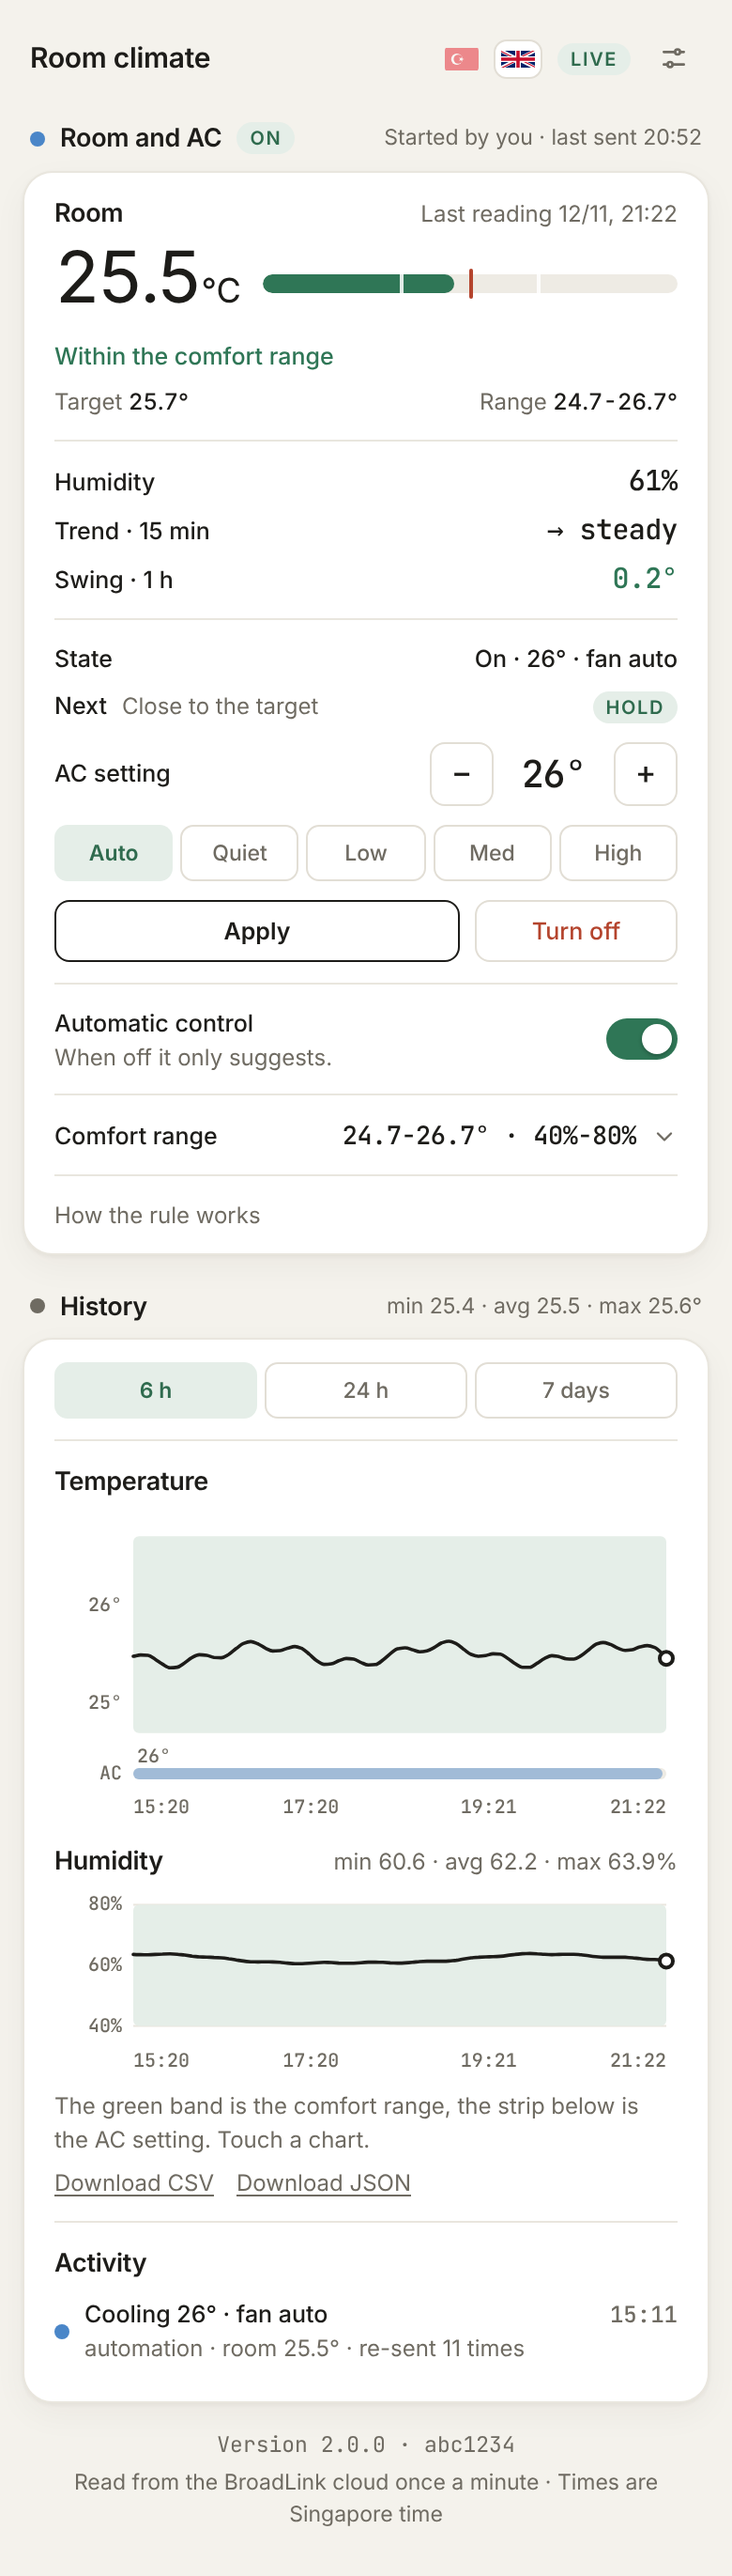
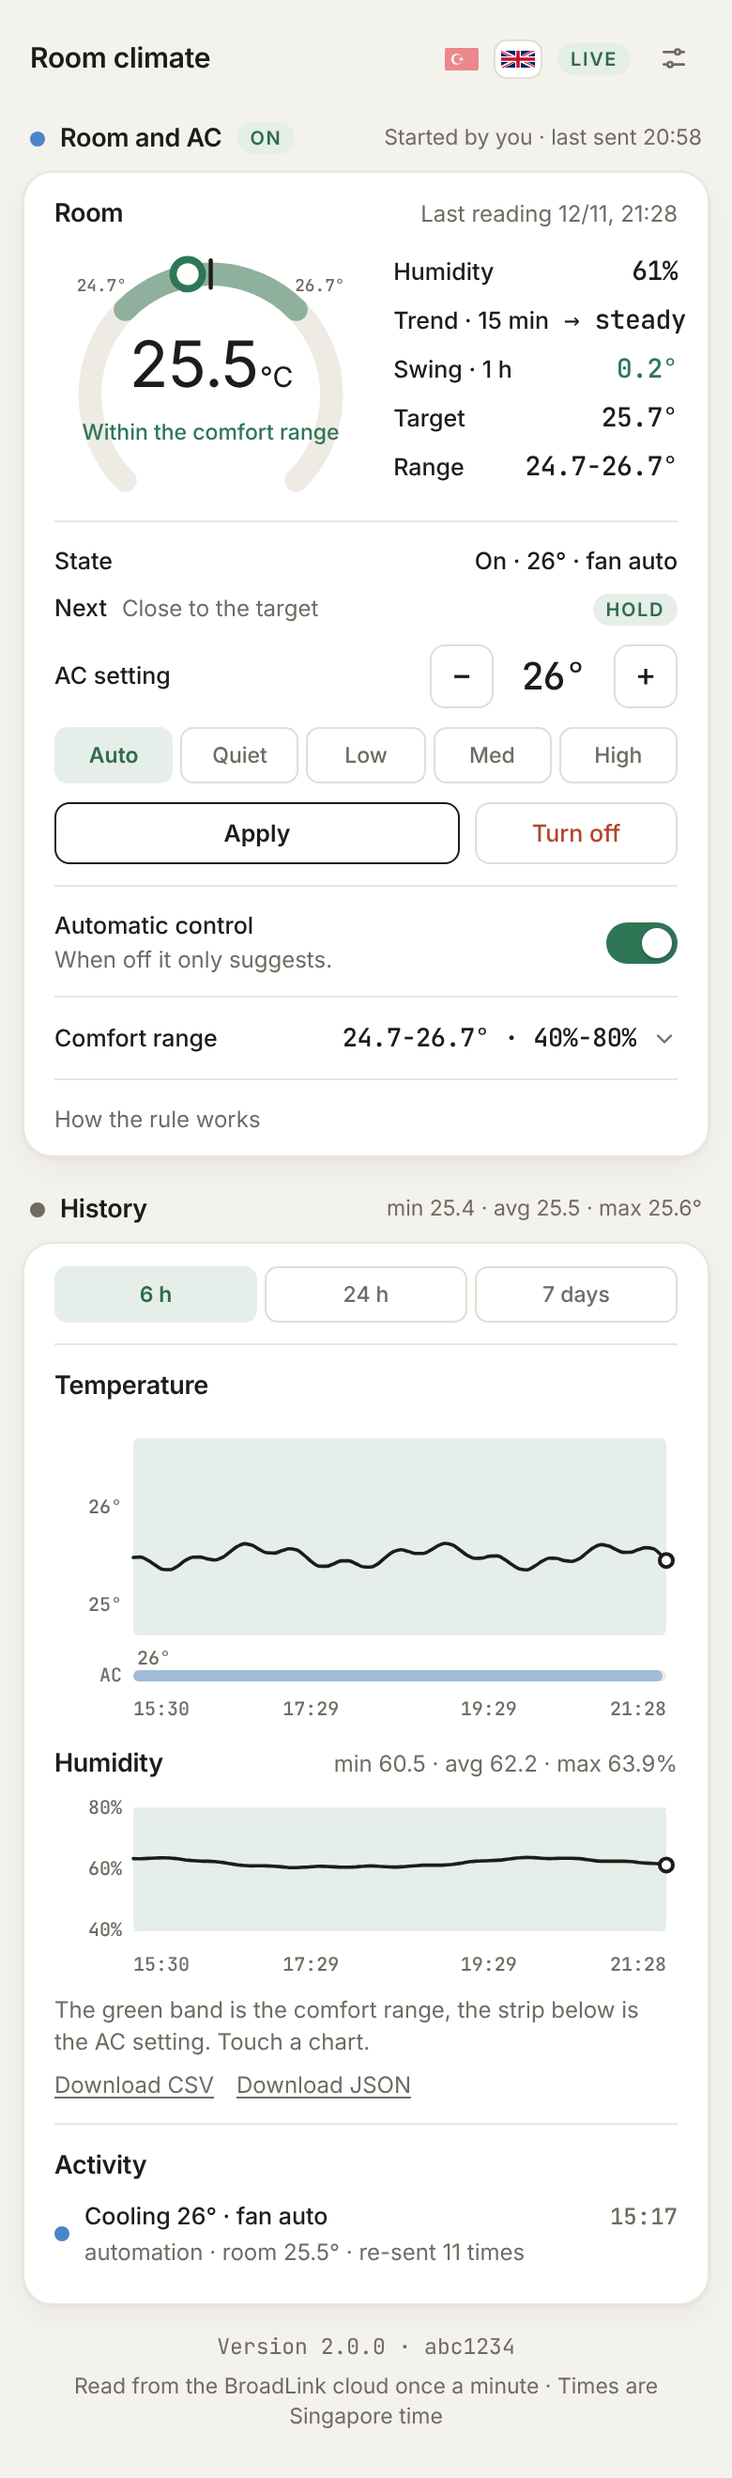
Bring the dial back in Runway colours
Claude-Session: https://claude.ai/code/session_01PFTjAvHpDoi9qfTSWgVPRK

diff --git a/cloud/public/index.html b/cloud/public/index.html
@@ -77,21 +77,25 @@ header h1{margin:0;font-size:var(--fs-lg);font-weight:600;letter-spacing:-.01em;
 /* stat */
 .stat-label{display:flex;justify-content:space-between;align-items:baseline;gap:8px;font-size:var(--fs-md);font-weight:600;letter-spacing:-.01em}
 .stat-label .cap{font-size:12px;font-weight:400;color:var(--muted);letter-spacing:0;text-align:right}
-.stat{display:flex;align-items:center;gap:12px;margin:2px 0 4px}
-.hero{flex:none;min-width:96px;font-size:var(--fs-hero);line-height:44px;font-weight:420;letter-spacing:-.045em;font-variant-numeric:tabular-nums;white-space:nowrap;transition:color .6s}
+.stat-state{font-size:var(--fs-sm);font-weight:500}
+.hero{font-size:var(--fs-hero);line-height:44px;font-weight:420;letter-spacing:-.045em;font-variant-numeric:tabular-nums;white-space:nowrap;transition:color .6s}
 .hero small{margin-left:1px;font-size:18px;font-weight:430;letter-spacing:0}
-.stat-foot{display:flex;justify-content:space-between;gap:8px;font-size:12px;color:var(--muted);font-variant-numeric:tabular-nums}
-.stat-foot b{font-weight:500;color:var(--fg)}
-.stat-state{font-size:var(--fs-sm);font-weight:500;margin-bottom:6px}
 
-/* meter: track, status fill, tick gaps, pace mark */
-.meter{position:relative;flex:1}
-.track{position:relative;height:10px;border-radius:5px;background:var(--track);overflow:hidden}
-.track i{position:absolute;left:0;top:0;bottom:0;border-radius:inherit;transition:width .8s cubic-bezier(.22,1,.36,1),background .6s}
-.track i.ok{background:var(--ok)}.track i.warn{background:var(--warn)}.track i.crit{background:var(--crit)}
-.track u{position:absolute;top:0;bottom:0;width:2px;margin-left:-1px;background:var(--card);opacity:.85;z-index:1}
-.pace{position:absolute;top:-3px;width:2px;height:16px;margin-left:-1px;border-radius:1px;background:var(--crit);transition:left .6s}
-
+/* room: dial + key/values */
+.room{display:grid;grid-template-columns:minmax(0,1.1fr) minmax(0,1fr);gap:14px;align-items:center;margin-top:4px}
+.dial{position:relative}
+.dial svg{width:100%;height:auto;overflow:visible}
+.dial text{fill:var(--muted);font:500 16px var(--mono)}
+#dTrack{stroke:var(--track)}
+#dBand{stroke:var(--ok);opacity:.5}
+#dTarget{stroke:var(--fg)}
+#needle{transform:rotate(135deg);transform-origin:150px 150px;transition:transform 1s cubic-bezier(.22,1,.36,1)}
+#needle circle{fill:var(--card);stroke:var(--state,var(--ok));stroke-width:7;transition:stroke .6s}
+.dialv{position:absolute;inset:0;display:flex;flex-direction:column;align-items:center;justify-content:center;padding-top:12%;pointer-events:none}
+.dialv .hero{min-width:0;font-size:34px;line-height:38px}
+.dialv .hero small{font-size:15px}
+.dialv .stat-state{margin:2px 0 0;font-size:11.5px;text-align:center;white-space:nowrap}
+.kvs .kv .v{font-size:14px}
 /* key / value */
 .kv{display:flex;align-items:baseline;gap:8px;line-height:18px;white-space:nowrap}
 .kv+.kv{margin-top:7px}
@@ -190,17 +194,25 @@ details.how p{margin:6px 0 0;font-size:12px;color:var(--muted);line-height:1.5}
   <div class="card">
     <div class="row">
       <div class="stat-label"><span data-i18n="roomLbl">Oda</span><span class="cap" id="meta"></span></div>
-      <div class="stat">
-        <div class="hero" id="hero">--<small>°C</small></div>
-        <div class="meter"><div class="track" id="track"><i id="fill"></i><u id="u1"></u><u id="u2"></u></div><span class="pace" id="pace"></span></div>
+      <div class="room">
+        <div class="dial">
+          <svg viewBox="0 0 300 250" aria-hidden="true">
+            <path id="dTrack" fill="none" stroke-width="22" stroke-linecap="round"/>
+            <path id="dBand" fill="none" stroke-width="22" stroke-linecap="round"/>
+            <line id="dTarget" stroke-width="4" stroke-linecap="round"/>
+            <text id="dMin" text-anchor="middle"></text><text id="dMax" text-anchor="middle"></text>
+            <g id="needle"><circle cx="268" cy="150" r="14"/></g>
+          </svg>
+          <div class="dialv"><div class="hero" id="hero">--<small>°C</small></div><div class="stat-state" id="state" data-i18n="waiting">Ölçüm bekleniyor</div></div>
+        </div>
+        <div class="kvs">
+          <div class="kv"><span class="k" data-i18n="pHum">Nem</span><span class="v" id="h">--</span></div>
+          <div class="kv"><span class="k" data-i18n="pTrend">Eğilim · 15 dk</span><span class="v" id="trend">--</span></div>
+          <div class="kv"><span class="k" data-i18n="pSwing">Oynama · 1 sa</span><span class="v" id="swing">--</span></div>
+          <div class="kv"><span class="k" data-i18n="targetK">Hedef</span><span class="v" id="ftarget">--</span></div>
+          <div class="kv"><span class="k" data-i18n="rangeLbl">Aralık</span><span class="v" id="frange">--</span></div>
+        </div>
       </div>
-      <div class="stat-state" id="state" data-i18n="waiting">Ölçüm bekleniyor</div>
-      <div class="stat-foot"><span><span data-i18n="targetK">Hedef</span> <b id="ftarget">--</b></span><span><span data-i18n="rangeLbl">Aralık</span> <b id="frange">--</b></span></div>
-    </div>
-    <div class="row">
-      <div class="kv"><span class="k" data-i18n="pHum">Nem</span><span class="v" id="h">--</span></div>
-      <div class="kv"><span class="k" data-i18n="pTrend">Eğilim · 15 dk</span><span class="v" id="trend">--</span></div>
-      <div class="kv"><span class="k" data-i18n="pSwing">Oynama · 1 sa</span><span class="v" id="swing">--</span></div>
     </div>
     <div class="row">
       <div class="kv"><span class="k" data-i18n="stateK">Durum</span><span class="v t" id="acline">...</span></div>
@@ -287,20 +299,34 @@ const when = at => (dm.format(at) === dm.format(Date.now()) ? hm.format(at) : cl
 const num = v => String(+(+v).toFixed(1));
 
 // ---- room ----
+const CX = 150, CY = 150, RAD = 116, A0 = 135, SWEEP = 270;
+const polar = (a, r = RAD) => [CX + r * Math.cos(a * Math.PI / 180), CY + r * Math.sin(a * Math.PI / 180)];
+function arc(a, b) {
+  const [x0, y0] = polar(a), [x1, y1] = polar(b);
+  return `M${x0.toFixed(1)},${y0.toFixed(1)}A${RAD},${RAD} 0 ${b - a > 180 ? 1 : 0} 1 ${x1.toFixed(1)},${y1.toFixed(1)}`;
+}
 function renderRoom() {
   const fresh = sample && Date.now() - sample.at < 180000;
   $('live').textContent = !sample ? t('noData') : fresh ? t('live') : t('stale');
   $('live').className = 'pill' + (!sample ? ' off' : fresh ? '' : ' crit');
-  const lo = cfg.tMin - 2, hi = cfg.tMax + 2, pc = v => Math.min(100, Math.max(0, (v - lo) / (hi - lo) * 100));
-  $('u1').style.left = pc(cfg.tMin) + '%'; $('u2').style.left = pc(cfg.tMax) + '%';
-  $('pace').style.left = pc(roomTarget(cfg)) + '%';
+  const lo = cfg.tMin - 2, hi = cfg.tMax + 2;
+  const ang = v => A0 + SWEEP * Math.min(1, Math.max(0, (v - lo) / (hi - lo)));
+  $('dTrack').setAttribute('d', arc(A0, A0 + SWEEP));
+  $('dBand').setAttribute('d', arc(ang(cfg.tMin), ang(cfg.tMax)));
+  const ta = ang(roomTarget(cfg)), [tx0, ty0] = polar(ta, RAD - 13), [tx1, ty1] = polar(ta, RAD + 13);
+  for (const [k, v] of [['x1', tx0], ['y1', ty0], ['x2', tx1], ['y2', ty1]]) $('dTarget').setAttribute(k, v.toFixed(1));
+  for (const [id, v] of [['dMin', cfg.tMin], ['dMax', cfg.tMax]]) {
+    const [x, y] = polar(ang(v), RAD + 32);
+    $(id).setAttribute('x', x.toFixed(1)); $(id).setAttribute('y', (y + 5).toFixed(1)); $(id).textContent = num(v) + '°';
+  }
   $('ftarget').textContent = num(roomTarget(cfg)) + '°';
   $('frange').textContent = `${num(cfg.tMin)}-${num(cfg.tMax)}°`;
   if (!sample) { $('state').textContent = t('waiting'); return; }
   const T = sample.temperature, lv = level(T, cfg.tMin, cfg.tMax);
   $('hero').innerHTML = `${T.toFixed(1)}<small>°C</small>`;
   $('hero').className = 'hero' + (lv === 'ok' ? '' : ' ' + lv);
-  $('fill').style.width = pc(T) + '%'; $('fill').className = lv;
+  $('needle').style.transform = `rotate(${ang(T)}deg)`;
+  document.documentElement.style.setProperty('--state', `var(--${lv})`);
   const parts = [];
   if (T < cfg.tMin) parts.push(t('cool')); else if (T > cfg.tMax) parts.push(t('hot'));
   if (sample.humidity < cfg.hMin) parts.push(t('dry')); else if (sample.humidity > cfg.hMax) parts.push(t('humid'));

diff --git a/README.md b/README.md
@@ -3,7 +3,7 @@
 Reads a BroadLink RM4 Mini + HTS2 temperature/humidity sensor through the BroadLink app cloud, stores it on Cloudflare (Worker + D1), serves a small bilingual (Turkish/English) dashboard, and can optionally drive an IR air conditioner to keep the room inside a comfort band. No always-on computer needed.
 
 <p align="center"><img src="docs/screenshot.png" alt="Dashboard with dummy data" width="320"></p>
-<p align="center"><sub>The dashboard with dummy data (Turkish and English, light and dark): room temperature on a comfort meter with the target mark, humidity, trend and last-hour swing, AC controls, comfort range, history with a strip showing the AC setting, and an activity log. Card order and theme are set from the settings button.</sub></p>
+<p align="center"><sub>The dashboard with dummy data (Turkish and English, light and dark): a dial with the comfort band and target, humidity, trend and last-hour swing, AC controls, comfort range, history with a strip showing the AC setting, and an activity log. Card order and theme are set from the settings button.</sub></p>
 
 - `cloud/` - Worker, dashboard (Turkish/English), D1 schema, IR code seed
 - `lib/broadlink-app-cloud.js` - client for the BroadLink app cloud (sensor read, IR send)
